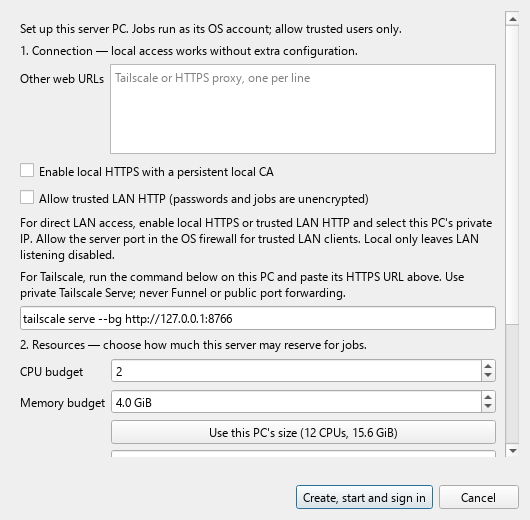
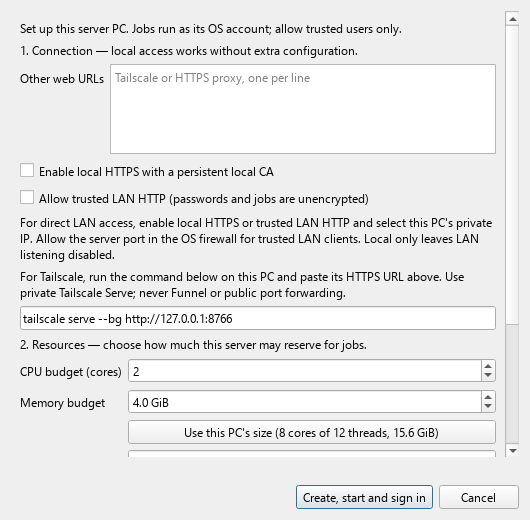
Budget in physical cores; mark where every core is busy
A new server's CPU budget is this PC's physical cores, not its threads: DFT
and similar calculations rarely gain from hyper-threads. On Linux only the
CPUs the server may run on count. The budget fields say "(cores)" and the
"Use this PC's size" button names both counts.

CPU in use stays a share of every thread. When there are more threads than
cores, its trend gets a dotted line where every core is busy, and the dial
turns amber past it. The server reports cpu_cores and cpu_threads with the
usage.

Changed region(s): [[0.483, 0.8, 0.8151, 0.8615], [0.1509, 0.7077, 0.3321, 0.8], [0.3623, 0.8, 0.4528, 0.8615]]

diff --git a/job_server/web/app.css b/job_server/web/app.css
@@ -1,5 +1,5 @@
 @font-face{font-family:system;src:local("Segoe UI")}
-:root{font-family:system,Inter,ui-sans-serif,sans-serif;color:#193237;background:#f4f6f5;font-synthesis:none;--line:#dce5e2;--muted:#637774;--teal:#126958;--nav:#142e30}*{box-sizing:border-box}body{margin:0;display:flex;min-height:100vh}button,input,textarea,select{font:inherit}button{cursor:pointer;border:1px solid #cad8d3;background:white;border-radius:7px;color:#254b44;font-size:13px;font-weight:600;padding:10px 15px;white-space:nowrap}button:hover{background:#edf5f1}tr.clickable{cursor:pointer}tr.clickable:hover td{background:#f3f8f6}button:disabled{opacity:.45;cursor:default}button:focus-visible,a:focus-visible{outline:3px solid #78cbb1;outline-offset:3px}.primary{background:var(--teal);color:white;border-color:var(--teal)}.primary:hover{background:#0e5144}[hidden]{display:none!important}.sidebar{width:236px;background:var(--nav);color:#dcece6;padding:35px 24px;position:fixed;inset:0 auto 0 0;display:flex;flex-direction:column}.brand{display:flex;align-items:center;gap:12px;text-decoration:none;color:white;font-size:19px;font-weight:700;letter-spacing:-.5px}.brand-mark{background:#b8e4ca;border-radius:10px;width:36px;height:36px;display:grid;place-items:center;color:#164f3d;font-size:23px}.brand small{display:block;font-size:9px;letter-spacing:2.3px;font-weight:500;margin-top:4px;color:#9bb9ad}.nav-caption{font-size:10px;letter-spacing:1.5px;color:#83a69b;margin:62px 12px 16px}.nav{width:100%;text-align:left;border:0;background:transparent;color:#a8c4bb;margin:3px 0;padding:14px 16px}.nav.active,.nav:hover{background:#244541;color:#e2f8e9}.sidebar-bottom{margin-top:auto;border-top:1px solid #35524c;padding-top:26px}.preview{font-size:9px;letter-spacing:1.4px;color:#b8ddc7}.sidebar-bottom p{font-size:12px;color:#8fb0a4;line-height:1.8}.quiet{border-color:#446b5d;background:transparent;color:white}main{margin-left:236px;padding:42px 48px;width:calc(100% - 236px);max-width:1600px}header{display:flex;justify-content:space-between;align-items:center;margin-bottom:38px}.eyebrow{font-size:10px;font-weight:700;letter-spacing:1.8px;color:var(--muted)}h1{font-size:30px;font-weight:600;margin:10px 0 0;letter-spacing:-1px}.connection{display:flex;align-items:center;gap:9px;font-size:12px;color:var(--muted)}.dot{height:7px;width:7px;display:block;border-radius:50%;background:#c5ccca}.dot.online{background:#2e956f}.connection button{margin-left:15px}.welcome{background:#e2eee7;border:1px solid #d5e5da;padding:34px 38px;border-radius:12px;display:flex;align-items:center;justify-content:space-between;gap:20px}.welcome .eyebrow{color:#477765}h2{font-size:22px;font-weight:600;letter-spacing:-.6px}.welcome h2{font-size:30px;line-height:1.2;margin:14px 0}.welcome p{color:#567368;font-size:14px;line-height:1.7;margin-bottom:0}.welcome .primary{padding:13px 19px}.welcome .primary span{padding-left:20px}.metrics{display:grid;grid-template-columns:repeat(4,1fr);gap:16px;margin:24px 0 38px}.metrics article{background:white;border:1px solid var(--line);border-radius:10px;padding:24px}.metrics span{display:block;color:var(--muted);font-size:12px}.metrics strong{display:block;font-size:32px;font-weight:500;margin:13px 0;letter-spacing:-1px}.metrics small{display:block;margin-top:12px;font-size:11px;color:#7e9189}.metrics small+strong{margin-top:0}.metrics article{position:relative}.dial{position:absolute;top:14px;right:14px;width:50px;height:50px}.dial path{fill:none;stroke-width:4.5;stroke-linecap:round}.dial-track{stroke:#e3e9e7}.dial-value{stroke:#2e7d32}.dial-text{font-size:10px;font-weight:600;fill:#52655f;text-anchor:middle}.dial-value.warn{stroke:#e08600}.dial-value.high{stroke:#c62828}.dial-value.unknown{opacity:0}.trend{margin-top:-50px}.metrics strong,.metrics small,.metrics article>span{position:relative;z-index:1;pointer-events:none}.dial{z-index:1}.metrics strong,.metrics small{-webkit-text-stroke:5px white;paint-order:stroke fill}.trend-top-label{font-size:10px;fill:#7e9189;text-anchor:end;stroke:white;stroke-width:4px;stroke-linejoin:round;paint-order:stroke fill}.trend-area{fill:#2a78d6;opacity:.1}.trend svg{display:block;width:100%;height:92px;overflow:visible}.trend-base{stroke:#e3e9e7;stroke-width:1}.trend-top{stroke:#cad8d3;stroke-width:1}.trend-line{fill:none;stroke:#2a78d6;stroke-width:2;stroke-linejoin:round;stroke-linecap:round}.trend-cross{stroke:#9aa9a4;stroke-width:1}.trend-dot{fill:#2a78d6;stroke:white;stroke-width:2}.trend-axis{display:flex;justify-content:space-between;font-size:10px;color:#8d9d97;margin-top:3px}.metrics{margin-bottom:12px}.span-row{display:flex;justify-content:space-between;align-items:center;gap:12px;margin:0 0 30px}.span-row small{font-size:11px;color:#8d9d97}.span-switch{display:flex;border:1px solid #cad8d3;border-radius:7px;overflow:hidden;background:white}.span-switch button{border:0;border-radius:0;padding:6px 12px;font-size:12px;color:#52655f;background:transparent}.span-switch button+button{border-left:1px solid #e3e9e7}.span-switch button.active{background:var(--teal);color:white}.trend-tip{position:fixed;z-index:20;pointer-events:none;background:#193237;color:white;font-size:12px;padding:5px 8px;border-radius:6px;white-space:nowrap}.section-head{display:flex;justify-content:space-between;align-items:center;margin:20px 0}.section-head h2,.section-head h3{margin:0 0 7px}.section-head p{margin:0;color:var(--muted);font-size:12px}.actions{display:flex;gap:8px}.table-wrap{background:white;border:1px solid var(--line);border-radius:10px;overflow:auto}table{border-collapse:collapse;width:100%;text-align:left;font-size:13px}th{background:#fafcfa;color:#7a8e85;font-size:10px;text-transform:uppercase;letter-spacing:1px;font-weight:600;padding:18px 22px;border-bottom:1px solid var(--line)}td{padding:19px 22px;border-bottom:1px solid #edf1ed}tr:last-child td{border:0}.job-name{font-weight:600}.job-id{display:block;color:#8a9b95;font-size:10px;margin-top:5px}.badge{display:inline-block;font-size:10px;letter-spacing:.4px;padding:6px 9px;border-radius:5px;background:#edf1ef;color:#60766a}.badge.running,.badge.done{background:#dff0e6;color:#21694c}.badge.pending,.badge.queued,.badge.uploading{background:#fbefd6;color:#92692c}.badge.failed,.badge.lost,.badge.cancelled,.badge.blocked{background:#f8e5e0;color:#9f5546}.empty{text-align:center;color:#8a9b92;padding:70px 20px}.footnote{font-size:11px;line-height:1.7;color:#86998f;margin-top:26px}.notice{background:#fff3d4;border:1px solid #ecd5a1;border-radius:7px;padding:14px 20px;font-size:13px;margin-bottom:20px}.card{background:white;border:1px solid var(--line);padding:28px;border-radius:10px}.form-card{max-width:830px}label{display:block;font-size:12px;font-weight:600;margin-bottom:20px;color:#466356}input,textarea,select{display:block;width:100%;border:1px solid #ccd9d1;border-radius:6px;background:#fbfdfb;color:#244737;padding:12px;margin-top:8px;outline-color:#67b695}textarea{font-family:ui-monospace,Consolas,monospace;font-size:13px;resize:vertical}label small{display:block;font-weight:400;font-size:11px;color:#809488;margin-top:9px;line-height:1.5}.form-row{display:flex;gap:20px;align-items:end}.form-row label{flex:1}.form-actions{display:flex;justify-content:space-between;align-items:center;gap:14px;margin-top:10px}.form-actions span{font-size:12px;color:var(--muted)}.checkbox{display:flex;align-items:center;gap:10px}.checkbox input{width:16px;margin:0}.device-title{margin-top:35px}.paging{display:flex;justify-content:flex-end;align-items:center;gap:16px;margin-top:16px;font-size:12px;color:var(--muted)}pre{white-space:pre-wrap;overflow-wrap:anywhere;font:12px/1.7 ui-monospace,Consolas,monospace;background:#eaf0eb;padding:20px;border-radius:8px}.log{background:#18332e;color:#c6e4d0;min-height:180px;max-height:400px;overflow:auto}.results{padding:0;list-style:none}.results li{display:flex;justify-content:space-between;align-items:center;background:white;border-bottom:1px solid var(--line);padding:14px 18px;font-size:13px}.results small{color:var(--muted);padding-left:12px}dialog{border:1px solid var(--line);border-radius:14px;padding:34px;max-width:470px;width:calc(100vw - 40px);color:#244135}dialog::backdrop{background:#112e28aa;backdrop-filter:blur(4px)}dialog p{font-size:13px;color:var(--muted);line-height:1.6}dialog h2{font-size:26px}#login-status{color:#a65236}
+:root{font-family:system,Inter,ui-sans-serif,sans-serif;color:#193237;background:#f4f6f5;font-synthesis:none;--line:#dce5e2;--muted:#637774;--teal:#126958;--nav:#142e30}*{box-sizing:border-box}body{margin:0;display:flex;min-height:100vh}button,input,textarea,select{font:inherit}button{cursor:pointer;border:1px solid #cad8d3;background:white;border-radius:7px;color:#254b44;font-size:13px;font-weight:600;padding:10px 15px;white-space:nowrap}button:hover{background:#edf5f1}tr.clickable{cursor:pointer}tr.clickable:hover td{background:#f3f8f6}button:disabled{opacity:.45;cursor:default}button:focus-visible,a:focus-visible{outline:3px solid #78cbb1;outline-offset:3px}.primary{background:var(--teal);color:white;border-color:var(--teal)}.primary:hover{background:#0e5144}[hidden]{display:none!important}.sidebar{width:236px;background:var(--nav);color:#dcece6;padding:35px 24px;position:fixed;inset:0 auto 0 0;display:flex;flex-direction:column}.brand{display:flex;align-items:center;gap:12px;text-decoration:none;color:white;font-size:19px;font-weight:700;letter-spacing:-.5px}.brand-mark{background:#b8e4ca;border-radius:10px;width:36px;height:36px;display:grid;place-items:center;color:#164f3d;font-size:23px}.brand small{display:block;font-size:9px;letter-spacing:2.3px;font-weight:500;margin-top:4px;color:#9bb9ad}.nav-caption{font-size:10px;letter-spacing:1.5px;color:#83a69b;margin:62px 12px 16px}.nav{width:100%;text-align:left;border:0;background:transparent;color:#a8c4bb;margin:3px 0;padding:14px 16px}.nav.active,.nav:hover{background:#244541;color:#e2f8e9}.sidebar-bottom{margin-top:auto;border-top:1px solid #35524c;padding-top:26px}.preview{font-size:9px;letter-spacing:1.4px;color:#b8ddc7}.sidebar-bottom p{font-size:12px;color:#8fb0a4;line-height:1.8}.quiet{border-color:#446b5d;background:transparent;color:white}main{margin-left:236px;padding:42px 48px;width:calc(100% - 236px);max-width:1600px}header{display:flex;justify-content:space-between;align-items:center;margin-bottom:38px}.eyebrow{font-size:10px;font-weight:700;letter-spacing:1.8px;color:var(--muted)}h1{font-size:30px;font-weight:600;margin:10px 0 0;letter-spacing:-1px}.connection{display:flex;align-items:center;gap:9px;font-size:12px;color:var(--muted)}.dot{height:7px;width:7px;display:block;border-radius:50%;background:#c5ccca}.dot.online{background:#2e956f}.connection button{margin-left:15px}.welcome{background:#e2eee7;border:1px solid #d5e5da;padding:34px 38px;border-radius:12px;display:flex;align-items:center;justify-content:space-between;gap:20px}.welcome .eyebrow{color:#477765}h2{font-size:22px;font-weight:600;letter-spacing:-.6px}.welcome h2{font-size:30px;line-height:1.2;margin:14px 0}.welcome p{color:#567368;font-size:14px;line-height:1.7;margin-bottom:0}.welcome .primary{padding:13px 19px}.welcome .primary span{padding-left:20px}.metrics{display:grid;grid-template-columns:repeat(4,1fr);gap:16px;margin:24px 0 38px}.metrics article{background:white;border:1px solid var(--line);border-radius:10px;padding:24px}.metrics span{display:block;color:var(--muted);font-size:12px}.metrics strong{display:block;font-size:32px;font-weight:500;margin:13px 0;letter-spacing:-1px}.metrics small{display:block;margin-top:12px;font-size:11px;color:#7e9189}.metrics small+strong{margin-top:0}.metrics article{position:relative}.dial{position:absolute;top:14px;right:14px;width:50px;height:50px}.dial path{fill:none;stroke-width:4.5;stroke-linecap:round}.dial-track{stroke:#e3e9e7}.dial-value{stroke:#2e7d32}.dial-text{font-size:10px;font-weight:600;fill:#52655f;text-anchor:middle}.dial-value.warn{stroke:#e08600}.dial-value.high{stroke:#c62828}.dial-value.unknown{opacity:0}.trend{margin-top:-50px}.metrics strong,.metrics small,.metrics article>span{position:relative;z-index:1;pointer-events:none}.dial{z-index:1}.metrics strong,.metrics small{-webkit-text-stroke:5px white;paint-order:stroke fill}.trend-top-label{font-size:10px;fill:#7e9189;text-anchor:end;stroke:white;stroke-width:4px;stroke-linejoin:round;paint-order:stroke fill}.trend-cores{stroke:#9aa9a4;stroke-width:1;stroke-dasharray:1 3}.trend-area{fill:#2a78d6;opacity:.1}.trend svg{display:block;width:100%;height:92px;overflow:visible}.trend-base{stroke:#e3e9e7;stroke-width:1}.trend-top{stroke:#cad8d3;stroke-width:1}.trend-line{fill:none;stroke:#2a78d6;stroke-width:2;stroke-linejoin:round;stroke-linecap:round}.trend-cross{stroke:#9aa9a4;stroke-width:1}.trend-dot{fill:#2a78d6;stroke:white;stroke-width:2}.trend-axis{display:flex;justify-content:space-between;font-size:10px;color:#8d9d97;margin-top:3px}.metrics{margin-bottom:12px}.span-row{display:flex;justify-content:space-between;align-items:center;gap:12px;margin:0 0 30px}.span-row small{font-size:11px;color:#8d9d97}.span-switch{display:flex;border:1px solid #cad8d3;border-radius:7px;overflow:hidden;background:white}.span-switch button{border:0;border-radius:0;padding:6px 12px;font-size:12px;color:#52655f;background:transparent}.span-switch button+button{border-left:1px solid #e3e9e7}.span-switch button.active{background:var(--teal);color:white}.trend-tip{position:fixed;z-index:20;pointer-events:none;background:#193237;color:white;font-size:12px;padding:5px 8px;border-radius:6px;white-space:nowrap}.section-head{display:flex;justify-content:space-between;align-items:center;margin:20px 0}.section-head h2,.section-head h3{margin:0 0 7px}.section-head p{margin:0;color:var(--muted);font-size:12px}.actions{display:flex;gap:8px}.table-wrap{background:white;border:1px solid var(--line);border-radius:10px;overflow:auto}table{border-collapse:collapse;width:100%;text-align:left;font-size:13px}th{background:#fafcfa;color:#7a8e85;font-size:10px;text-transform:uppercase;letter-spacing:1px;font-weight:600;padding:18px 22px;border-bottom:1px solid var(--line)}td{padding:19px 22px;border-bottom:1px solid #edf1ed}tr:last-child td{border:0}.job-name{font-weight:600}.job-id{display:block;color:#8a9b95;font-size:10px;margin-top:5px}.badge{display:inline-block;font-size:10px;letter-spacing:.4px;padding:6px 9px;border-radius:5px;background:#edf1ef;color:#60766a}.badge.running,.badge.done{background:#dff0e6;color:#21694c}.badge.pending,.badge.queued,.badge.uploading{background:#fbefd6;color:#92692c}.badge.failed,.badge.lost,.badge.cancelled,.badge.blocked{background:#f8e5e0;color:#9f5546}.empty{text-align:center;color:#8a9b92;padding:70px 20px}.footnote{font-size:11px;line-height:1.7;color:#86998f;margin-top:26px}.notice{background:#fff3d4;border:1px solid #ecd5a1;border-radius:7px;padding:14px 20px;font-size:13px;margin-bottom:20px}.card{background:white;border:1px solid var(--line);padding:28px;border-radius:10px}.form-card{max-width:830px}label{display:block;font-size:12px;font-weight:600;margin-bottom:20px;color:#466356}input,textarea,select{display:block;width:100%;border:1px solid #ccd9d1;border-radius:6px;background:#fbfdfb;color:#244737;padding:12px;margin-top:8px;outline-color:#67b695}textarea{font-family:ui-monospace,Consolas,monospace;font-size:13px;resize:vertical}label small{display:block;font-weight:400;font-size:11px;color:#809488;margin-top:9px;line-height:1.5}.form-row{display:flex;gap:20px;align-items:end}.form-row label{flex:1}.form-actions{display:flex;justify-content:space-between;align-items:center;gap:14px;margin-top:10px}.form-actions span{font-size:12px;color:var(--muted)}.checkbox{display:flex;align-items:center;gap:10px}.checkbox input{width:16px;margin:0}.device-title{margin-top:35px}.paging{display:flex;justify-content:flex-end;align-items:center;gap:16px;margin-top:16px;font-size:12px;color:var(--muted)}pre{white-space:pre-wrap;overflow-wrap:anywhere;font:12px/1.7 ui-monospace,Consolas,monospace;background:#eaf0eb;padding:20px;border-radius:8px}.log{background:#18332e;color:#c6e4d0;min-height:180px;max-height:400px;overflow:auto}.results{padding:0;list-style:none}.results li{display:flex;justify-content:space-between;align-items:center;background:white;border-bottom:1px solid var(--line);padding:14px 18px;font-size:13px}.results small{color:var(--muted);padding-left:12px}dialog{border:1px solid var(--line);border-radius:14px;padding:34px;max-width:470px;width:calc(100vw - 40px);color:#244135}dialog::backdrop{background:#112e28aa;backdrop-filter:blur(4px)}dialog p{font-size:13px;color:var(--muted);line-height:1.6}dialog h2{font-size:26px}#login-status{color:#a65236}
 @media(max-width:1100px){.sidebar{width:200px;padding:30px 18px}main{margin-left:200px;width:calc(100% - 200px);padding:32px 28px}.metrics{gap:10px}.metrics article{padding:18px}.metrics strong{font-size:25px}.welcome{padding:28px}.welcome h2{font-size:26px}}
 @media(max-width:760px){body{display:block}.sidebar{position:static;width:auto;padding:18px 20px;flex-direction:row;align-items:center;justify-content:space-between}.brand{font-size:16px}.brand-mark{width:30px;height:30px}.nav-caption,.sidebar-bottom{display:none}.sidebar nav{display:flex}.nav{padding:10px;font-size:11px;width:auto}.nav[data-panel=accounts]{max-width:95px;white-space:normal}main{margin:0;width:100%;padding:25px 18px}header{margin-bottom:24px;gap:10px}.eyebrow{font-size:9px}h1{font-size:26px}.connection{font-size:10px;gap:6px}.connection button{margin-left:3px;padding:8px}.welcome{padding:24px;align-items:start;flex-direction:column}.welcome h2{font-size:27px}.metrics{grid-template-columns:repeat(2,1fr);margin-bottom:28px}.form-row{flex-wrap:wrap}.form-row label{min-width:110px}th,td{padding:14px 12px}.job-id{max-width:140px;overflow:hidden;text-overflow:ellipsis}.actions button{padding:8px;font-size:11px}.welcome p{font-size:13px}}
 @media(max-width:760px){.connection{flex-wrap:wrap;justify-content:flex-end;max-width:65%}.connection button{margin-left:0}.connection #connection-text{max-width:140px}}

diff --git a/job_server/web/app.js b/job_server/web/app.js
@@ -43,12 +43,15 @@ function dialArc(fraction) {
   const start=Math.PI*3/4,sweep=Math.PI*3/2*Math.min(fraction,0.9999);
   return 'M'+point(start)+'A17 17 0 '+(sweep>Math.PI?1:0)+' 1 '+point(start+sweep);
 }
+// Where every core is busy, as a share of all threads; null without hyper-threading.
+const coreLine={share:null,cores:null};
 function dial(key,value) {
   const known=typeof value==='number';
   const label=$('#dial-text-'+key);if(label)setText(label,known?Math.round(value)+'%':'—');
   const arc=$('#dial-'+key);if(typeof arc?.setAttribute!=='function')return;
   arc.setAttribute('d',known&&value>0?dialArc(value/100):'');
-  arc.setAttribute('class','dial-value'+(!known||value<=0?' unknown':value>=90?' high':value>=70?' warn':''));
+  const warn=key==='cpu-now'&&coreLine.share!==null?Math.min(coreLine.share,90):70;
+  arc.setAttribute('class','dial-value'+(!known||value<=0?' unknown':value>=90?' high':value>=warn?' warn':''));
 }
 function mergeHistory(reply) {
   if(!reply||!Array.isArray(reply.samples))return;
@@ -95,6 +98,12 @@ function drawTrend(key,hover=null) {
   label.textContent=(['running','pending'].includes(key)?top:top+'%');
   const parts=[svgElement('line',{class:'trend-top',x1:0,x2:width,y1:2,y2:2}),svgElement('line',{class:'trend-base',x1:0,x2:width,y1:height-0.5,y2:height-0.5}),svgElement('path',{class:'trend-area',d:area}),svgElement('path',{class:'trend-line',d:path}),label];
   if(hover)parts.push(svgElement('line',{class:'trend-cross',x1:hover.x,x2:hover.x,y1:0,y2:height}),svgElement('circle',{class:'trend-dot',cx:hover.x,cy:hover.y,r:4}));
+  if(key==='cpu-now'&&coreLine.share!==null){
+    // 100% is every thread; past the dotted line the hyper-threads are in use.
+    const y=(2+(height-4)*(1-coreLine.share/100)).toFixed(1),note=svgElement('text',{class:'trend-top-label',x:width-2,y:Number(y)-4});
+    note.textContent=coreLine.cores+' cores';
+    parts.splice(1,0,svgElement('line',{class:'trend-cores',x1:0,x2:width,y1:y,y2:y}));parts.push(note);
+  }
   svg.replaceChildren(...parts);
 }
 function describeSample(key,point) {
@@ -117,7 +126,7 @@ for(const key of Object.keys(TRENDS)){
   svg.addEventListener('pointerleave',()=>{$('#trend-tip').hidden=true;drawTrend(key);});
 }
 globalThis.addEventListener?.('resize',()=>{for(const key of Object.keys(TRENDS))drawTrend(key);});
-function clearTrends() { trendState.rows.length=0; for(const key of Object.keys(TRENDS)){drawTrend(key);if(!['running','pending'].includes(key))dial(key,null);} }
+function clearTrends() { trendState.rows.length=0; coreLine.share=coreLine.cores=null; for(const key of Object.keys(TRENDS)){drawTrend(key);if(!['running','pending'].includes(key))dial(key,null);} }
 
 function cores(count) { return count+(count===1?' core':' cores'); }
 function ahead(count) { return count===0 ? 'next in line' : count+' ahead'; }
@@ -320,7 +329,10 @@ async function refresh() {
     $('#cpu-now').textContent=typeof resource.cpu_percent==='number'?Math.round(resource.cpu_percent)+'%':'—';
     $('#memory-now').textContent=typeof resource.memory_percent==='number'?gb(resource.memory_used_mb)+' / '+gb(resource.memory_total_mb):'—';
     const shares={'cpu-now':typeof resource.cpu_percent==='number'?resource.cpu_percent:null,'memory-now':typeof resource.memory_percent==='number'?resource.memory_percent:null,cpu:share(resource.reserved_cpus,resource.cpus),memory:share(resource.reserved_memory_mb,resource.memory_mb)};
+    const hyper=Number.isInteger(resource.cpu_cores)&&Number.isInteger(resource.cpu_threads)&&resource.cpu_cores>0&&resource.cpu_cores<resource.cpu_threads;
+    coreLine.share=hyper?100*resource.cpu_cores/resource.cpu_threads:null;coreLine.cores=hyper?resource.cpu_cores:null;
     for(const [key,value] of Object.entries(shares))dial(key,value);
+    drawTrend('cpu-now');
     // Optional: a server from before 0.12 has no history, and the figures work without it.
     const since=trendState.rows.length?trendState.rows[trendState.rows.length-1][0]:Math.max(0,Date.now()/1000-trendState.span);
     try {mergeHistory(await api('GET','/system/resources/history?since='+since));} catch(error) {if(error.staleSession||error.status===401)throw error;}

diff --git a/job_server/ui/dashboard.py b/job_server/ui/dashboard.py
@@ -53,7 +53,7 @@ from PySide6.QtWidgets import (
 from ..client import ClientError, JobServerClient
 from .units import GBSpinBox, FocusSpinBox, gb
 from .network import LanAddressList
-from ..settings import Settings, pc_resources
+from ..settings import Settings, pc_resources, pc_size_label
 
 
 class Signals(QObject):
@@ -247,7 +247,7 @@ class Dashboard(QDialog):
         self.metric_trends = {}
         for index, (key, title) in enumerate((
             ("running", "Running jobs"), ("cpu_usage", "CPU in use now (whole PC)"),
-            ("cpu", "CPU reserved / budget"), ("pending", "Waiting jobs"),
+            ("cpu", "CPU cores reserved / budget"), ("pending", "Waiting jobs"),
             ("memory_usage", "Memory in use now (whole PC, usable)"), ("memory", "Memory reserved / budget"),
         )):
             card = QGroupBox(title)
@@ -603,7 +603,7 @@ class Dashboard(QDialog):
         resources = QGroupBox("Resources")
         limits = QFormLayout(resources)
         for key, label, maximum in (
-            ("cpus", "CPU budget", 4096),
+            ("cpus", "CPU budget (cores)", 4096),
             ("memory_mb", "Memory budget", 2147483647),
             ("max_active_per_user", "Active jobs per user", 10000),
             ("max_queued_per_user", "Queued jobs per user", 100000),
@@ -611,7 +611,7 @@ class Dashboard(QDialog):
         ):
             limits.addRow(label, number(key, maximum))
         cpus, memory_mb = pc_resources()
-        self.match_pc_button = QPushButton(f"Use this PC's size ({cpus} CPUs, {gb(memory_mb)} GiB)")
+        self.match_pc_button = QPushButton(pc_size_label(gb(memory_mb)))
 
         def match_pc():
             self.fields["cpus"].setValue(cpus)
@@ -912,7 +912,14 @@ class Dashboard(QDialog):
                 "—" if memory_now is None
                 else f"{gb(resource.get('memory_used_mb'))} / {gb(resource.get('memory_total_mb'))} GiB"
             )
-            self._set_usage("cpu_usage", cpu_now, 100)
+            # 100% is every thread; past the dotted line the hyper-threads are in use.
+            cores, threads = resource.get("cpu_cores"), resource.get("cpu_threads")
+            hyper = isinstance(cores, int) and isinstance(threads, int) and 0 < cores < threads
+            cores_share = 100 * cores / threads if hyper else None
+            self.metric_trends["cpu_usage"].set_marker(
+                cores_share, f"{cores} cores" if hyper else ""
+            )
+            self._set_usage("cpu_usage", cpu_now, 100, warn=cores_share)
             self._set_usage("memory_usage", memory_now, 100)
             self._merge_history(data.get("history"))
             usernames = {u["id"]: u["username"] for u in data["users"]}
@@ -1030,10 +1037,12 @@ class Dashboard(QDialog):
         for trend in self.metric_trends.values():
             trend.set_span(*span)
 
-    def _set_usage(self, key, used, budget):
+    def _set_usage(self, key, used, budget, warn=None):
+        """Green, then amber from ``warn`` (70% unless given), then red from 90%."""
         share = percent(used, budget)
         value = 0 if share is None else round(share)
-        color = "#c62828" if value >= 90 else "#e08600" if value >= 70 else "#2e7d32"
+        warn = 70 if warn is None else min(warn, 90)
+        color = "#c62828" if value >= 90 else "#e08600" if (share or 0) >= warn else "#2e7d32"
         gauge = self.metric_bars[key]
         gauge.setValue(value)
         gauge.setKnown(share is not None)

diff --git a/job_server/ui/meters.py b/job_server/ui/meters.py
@@ -91,6 +91,7 @@ class Trend(QWidget):
         self.samples = []
         self.span, self.span_label = DEFAULT_SPAN
         self.gap = 30.0
+        self.marker = None
         self._hover = None
         self.setMouseTracking(True)
         self.setMinimumHeight(76)
@@ -104,6 +105,13 @@ class Trend(QWidget):
             self.gap = gap
         self._hover = None
         self.update()
+
+    def set_marker(self, value, label=""):
+        """A dotted line at ``value`` with a small label, or none when ``value`` is None."""
+        marker = None if value is None else (float(value), label)
+        if marker != self.marker:
+            self.marker = marker
+            self.update()
 
     def set_span(self, seconds, label):
         self.span, self.span_label = seconds, label
@@ -197,6 +205,19 @@ class Trend(QWidget):
         painter.setPen(QPen(color, 2, Qt.PenStyle.SolidLine, Qt.PenCapStyle.RoundCap,
                             Qt.PenJoinStyle.RoundJoin))
         painter.drawPath(path)
+        if self.marker is not None:
+            # A dotted line at a level worth knowing, such as where every core is busy.
+            level, text = self.marker
+            top = self._scale()
+            span = self._plot_height() - self._ceiling() - 2
+            y = self._ceiling() + span * (1 - min(level, top) / top)
+            painter.setPen(QPen(_ink(self, 0.45), 1, Qt.PenStyle.DotLine))
+            painter.drawLine(QPointF(0, y), QPointF(self.width(), y))
+            if text:
+                height = QFontMetricsF(painter.font()).height()
+                painter.setPen(_ink(self, 0.55))
+                painter.drawText(QRectF(0, y - height - 1, self.width(), height),
+                                 Qt.AlignmentFlag.AlignRight | Qt.AlignmentFlag.AlignBottom, text)
         # What the top line stands for, just above its right end.
         height = QFontMetricsF(painter.font()).height()
         corner = QRectF(0, self._ceiling() - height - 1, self.width(), height)

diff --git a/tests/test_pc_cpus.py b/tests/test_pc_cpus.py
@@ -1,0 +1,48 @@
+"""The default CPU budget counts physical cores the server may use, not threads."""
+
+import os
+import types
+
+import pytest
+
+from job_server import settings
+
+
+def fake_psutil(monkeypatch, logical, physical, memory_mb=16384):
+    module = types.SimpleNamespace(
+        cpu_count=lambda logical_count=True, **kwargs: (
+            physical if kwargs.get("logical", logical_count) is False else logical
+        ),
+        virtual_memory=lambda: types.SimpleNamespace(total=memory_mb * 1024 * 1024),
+    )
+    monkeypatch.setitem(__import__("sys").modules, "psutil", module)
+
+
+@pytest.fixture
+def no_affinity(monkeypatch):
+    monkeypatch.delattr(os, "sched_getaffinity", raising=False)
+
+
+def test_hyper_threaded_pc_defaults_to_its_cores(monkeypatch, no_affinity):
+    fake_psutil(monkeypatch, logical=12, physical=8)
+    assert settings.pc_cpus() == (8, 12)
+    assert settings.pc_resources() == (8, 16384)
+    assert settings.pc_size_label("16.0") == "Use this PC's size (8 cores of 12 threads, 16.0 GiB)"
+
+
+def test_without_hyper_threading_the_label_names_cores_only(monkeypatch, no_affinity):
+    fake_psutil(monkeypatch, logical=4, physical=4)
+    assert settings.pc_size_label("8.0") == "Use this PC's size (4 cores, 8.0 GiB)"
+    fake_psutil(monkeypatch, logical=1, physical=1)
+    assert settings.pc_size_label("1.0") == "Use this PC's size (1 core, 1.0 GiB)"
+
+
+def test_unknown_physical_count_falls_back_to_threads(monkeypatch, no_affinity):
+    fake_psutil(monkeypatch, logical=6, physical=None)
+    assert settings.pc_cpus() == (6, 6)
+
+
+def test_linux_affinity_limits_the_default(monkeypatch):
+    fake_psutil(monkeypatch, logical=32, physical=16)
+    monkeypatch.setattr(os, "sched_getaffinity", lambda pid: {0, 1, 2, 3}, raising=False)
+    assert settings.pc_cpus() == (4, 4)

diff --git a/job_server/settings.py b/job_server/settings.py
@@ -6,11 +6,41 @@ from pathlib import Path
 from .files import atomic_write
 
 
-def pc_resources():
-    """This PC's logical CPUs and installed memory in MB: a new server's budget."""
+def pc_cpus():
+    """(physical cores, threads) this server may use.
+
+    Threads are the logical CPUs the OS schedules on; with hyper-threading there are
+    more of them than cores. On Linux the process may be confined to fewer CPUs than
+    the machine has (taskset, a container, a systemd unit), and those are what count.
+    """
     import psutil
 
-    return psutil.cpu_count() or 1, max(1, psutil.virtual_memory().total // (1024 * 1024))
+    threads = psutil.cpu_count() or 1
+    try:
+        threads = min(threads, len(os.sched_getaffinity(0))) or threads
+    except (AttributeError, OSError):
+        pass
+    cores = psutil.cpu_count(logical=False) or threads
+    return max(1, min(cores, threads)), threads
+
+
+def pc_resources():
+    """This PC's physical cores and installed memory in MB: a new server's budget.
+
+    Cores rather than threads: calculations such as DFT rarely gain from the second
+    thread of a hyper-threaded core, so a budget of threads would oversubscribe it.
+    """
+    import psutil
+
+    return pc_cpus()[0], max(1, psutil.virtual_memory().total // (1024 * 1024))
+
+
+def pc_size_label(memory_text):
+    """The "Use this PC's size" button text, naming threads when they differ from cores."""
+    cores, threads = pc_cpus()
+    noun = "core" if cores == 1 else "cores"
+    extra = f" of {threads} threads" if threads != cores else ""
+    return f"Use this PC's size ({cores} {noun}{extra}, {memory_text} GiB)"
 
 
 @dataclass

diff --git a/tests/test_account_gui.py b/tests/test_account_gui.py
@@ -375,3 +375,17 @@ def test_revoked_key_is_replaced_only_after_a_new_device_is_accepted(dashboard, 
     monkeypatch.setattr(JobServerClient, "enroll", accepted)
     dashboard.sign_in()
     assert key.read_text() == "new key"
+
+
+def test_cpu_dial_turns_amber_once_every_core_is_busy(dashboard, monkeypatch):
+    usage = {"memory_percent": 50.0, "memory_used_mb": 8192, "memory_total_mb": 16384,
+             "cpu_cores": 8, "cpu_threads": 12}
+    show_users(dashboard, monkeypatch, resources={**usage, "cpu_percent": 60.0})
+    assert dashboard.metric_trends["cpu_usage"].marker == (pytest.approx(100 * 8 / 12), "8 cores")
+    assert dashboard.metric_bars["cpu_usage"]._color.name() == "#2e7d32"
+    show_users(dashboard, monkeypatch, resources={**usage, "cpu_percent": 70.0})
+    assert dashboard.metric_bars["cpu_usage"]._color.name() == "#e08600"
+    # Without hyper-threading there is no core line and amber starts at 70% as before.
+    show_users(dashboard, monkeypatch, resources={**usage, "cpu_percent": 68.0, "cpu_cores": 8, "cpu_threads": 8})
+    assert dashboard.metric_trends["cpu_usage"].marker is None
+    assert dashboard.metric_bars["cpu_usage"]._color.name() == "#2e7d32"

diff --git a/job_server/ui/setup.py b/job_server/ui/setup.py
@@ -6,7 +6,7 @@ from PySide6.QtWidgets import (
 )
 
 from ..auth import MIN_PASSWORD_LENGTH
-from ..settings import pc_resources
+from ..settings import pc_resources, pc_size_label
 from .units import GBSpinBox, FocusSpinBox, gb
 from .network import LanAddressList
 
@@ -83,10 +83,10 @@ class SetupDialog(QDialog):
         self.memory.set_mb(dashboard.fields["memory_mb"].mb())
         self.python = QLineEdit(dashboard.python_path.text())
         self.python.setPlaceholderText("Automatic; select a Python executable for portable builds")
-        resources.addRow("CPU budget", self.cpus)
+        resources.addRow("CPU budget (cores)", self.cpus)
         resources.addRow("Memory budget", self.memory)
         cpus, memory_mb = pc_resources()
-        self.match_pc = QPushButton(f"Use this PC's size ({cpus} CPUs, {gb(memory_mb)} GiB)")
+        self.match_pc = QPushButton(pc_size_label(gb(memory_mb)))
 
         def match_pc():
             self.cpus.setValue(cpus)

diff --git a/job_server/scheduler.py b/job_server/scheduler.py
@@ -283,11 +283,15 @@ def host_usage():
                 "memory_percent": memory.percent,
                 "memory_used_mb": (memory.total - memory.available) // (1024 * 1024),
                 "memory_total_mb": memory.total // (1024 * 1024),
+                # CPU use is a share of every thread; the cores mark where hyper-threads start.
+                "cpu_threads": psutil.cpu_count(),
+                "cpu_cores": psutil.cpu_count(logical=False),
             }
         except (OSError, psutil.Error):
             reading = {
                 "cpu_percent": None, "memory_percent": None,
                 "memory_used_mb": None, "memory_total_mb": None,
+                "cpu_threads": None, "cpu_cores": None,
             }
         _usage = (time.monotonic(), reading)
         return reading

diff --git a/tests/test_meters.py b/tests/test_meters.py
@@ -87,3 +87,15 @@ def test_the_dashboard_draws_the_server_history_and_switches_span(tmp_path, qt, 
         assert all(trend.samples == [] for trend in board.metric_trends.values())
     finally:
         board.close()
+
+
+def test_cpu_trend_marks_where_every_core_is_busy(qtbot=None):
+    from job_server.ui.meters import Trend
+
+    trend = Trend("%", 100, clock=lambda: 3.0)
+    trend.resize(200, 80)
+    trend.set_marker(100 * 8 / 12, "8 cores")
+    assert trend.marker == (100 * 8 / 12, "8 cores")
+    trend.grab()  # paints the dotted line and its label without error
+    trend.set_marker(None)
+    assert trend.marker is None

diff --git a/README.md b/README.md
@@ -160,7 +160,14 @@ verify SHA-256. Browser downloads hold the file in memory, so use Python for lar
 ## Limits
 
 CPU and memory budgets are **advisory**: they decide when jobs start, not what a job may
-use. All jobs share the service OS account, so they are not isolated from each other.
+use. The CPU budget counts physical cores, and a new server starts at this PC's core
+count rather than its thread count: with hyper-threading a PC has more threads than cores,
+and calculations rarely gain from the extra ones. On Linux only the CPUs the server may
+run on count (`taskset`, containers, systemd limits).
+
+**CPU in use now** is a share of every thread, so 100% means all threads are busy. When
+the PC has more threads than cores, a dotted line on its trend marks where every core is
+busy, and the dial turns amber past it: from there jobs share cores with hyper-threads. All jobs share the service OS account, so they are not isolated from each other.
 This is a service for trusted users. See [SECURITY.md](SECURITY.md) and
 [Execution and limits](docs/EXECUTION.md).
 
